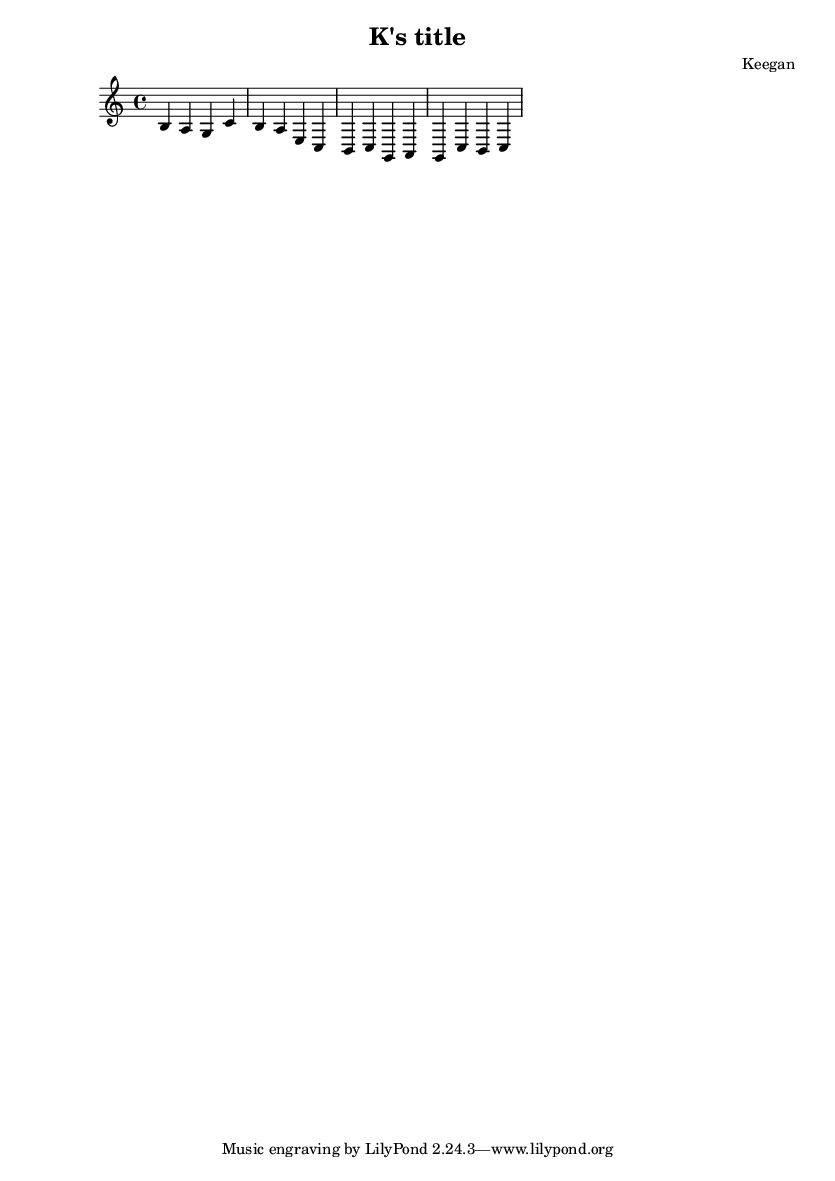
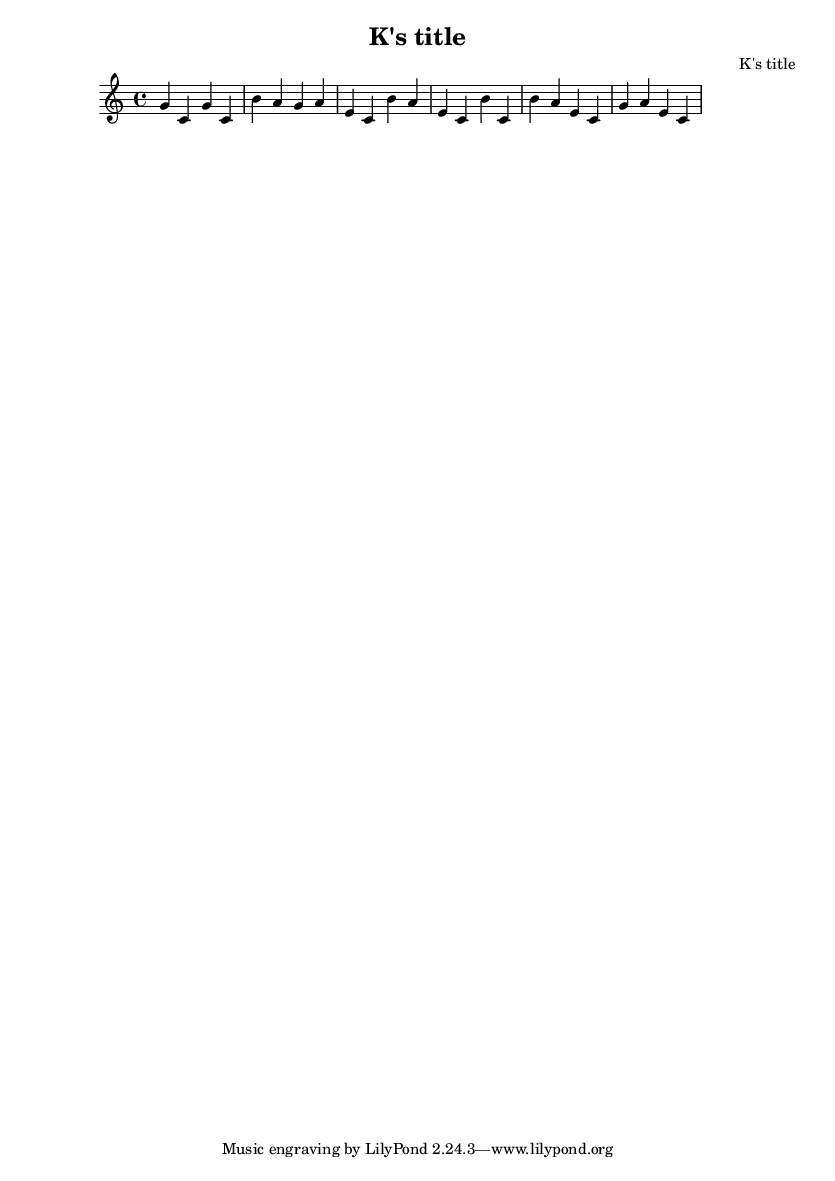
update lilypond template to always output to the middle c octave

Changed region(s): [[0.1246, 0.061, 0.8407, 0.1524], [0.8719, 0.0305, 0.9653, 0.061]]

diff --git a/internal/lilypond/lilypond.go b/internal/lilypond/lilypond.go
@@ -40,12 +40,12 @@ func (lp *Lilypond) DisplayScore() error {
 	scoreTemplate, err := template.New("score").Parse(`\version "2.24.3"
 \header {
   title = "{{.Title}}"
-  composer = "{{.Composer}}"
+  composer = "{{.Title}}"
 }
 
 \score {
   \new Staff {
-    \relative c' {
+     {
       \time 4/4
       \key c \major
 
@@ -89,7 +89,7 @@ func (lp *Lilypond) convertNotesToLilypond() string {
 	for _, note := range lp.Notes {
 		// TODO: Ignoring octave for now
 		// TODO: also the string is gross
-		newString := fmt.Sprintf("%s%d", strings.ToLower(string(note.PitchWithOctave[0])), convertDuration(note.QuarterNoteDuration))
+		newString := fmt.Sprintf("%s'%d", strings.ToLower(string(note.PitchWithOctave[0])), convertDuration(note.QuarterNoteDuration))
 		lilypondMelody = append(lilypondMelody, newString)
 	}
 	return strings.Join(lilypondMelody, " ")
